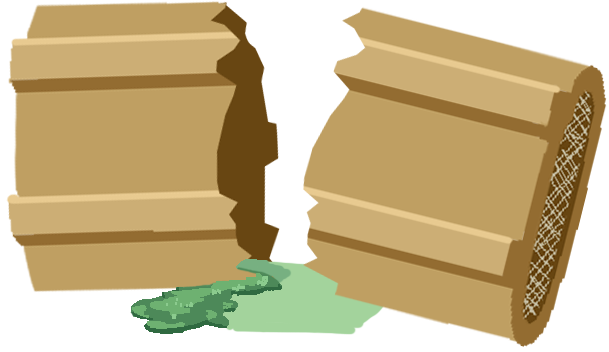
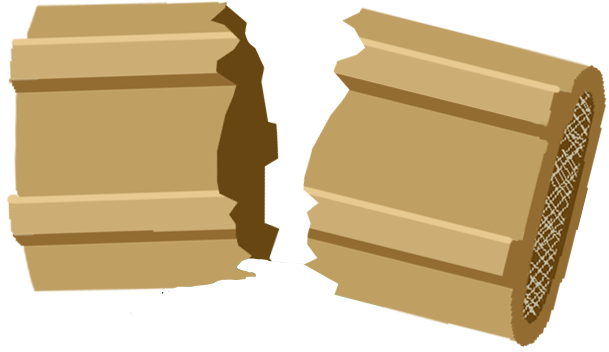
From the capsule, they emerge

Changed region(s): [[0.2184, 0.7188, 0.624, 0.9688]]

diff --git a/game.ts b/game.ts
@@ -6,6 +6,7 @@ import {Tardigrade} from './tardigrade.js'
 import {Point, distanceSquared, addPoints, assignPoint} from './math.js';
 import {Popover, EmptyPopover, PausePopover} from './popover.js';
 import {liveTardigrades} from './tardigrade.js'
+import { Capsule } from './capsule.js';
 
 export interface Viewport {
   x: number;
@@ -25,6 +26,7 @@ export class Game {
   readonly grid : Grid;
   readonly pawns = new Array<Tardigrade>();
   readonly batteries = new Array<Battery>();
+  readonly capsules = new Array<Capsule>();
   readonly hud = new Hud(this);
 
   private readonly heldButtons = new Set<number>();
@@ -136,12 +138,20 @@ export class Game {
 
     this.grid.draw(this.ctx, timestamp);
 
+    for(let i=0; i < this.capsules.length; i++) {
+      this.capsules[i].drawBG(this.ctx);
+    }
+
     for (let i = 0; i < this.pawns.length; i++){
       this.pawns[i].draw(this.ctx);
     }
 
     for(let i = 0; i < this.batteries.length; i++) {
       this.batteries[i].draw(this.ctx);
+    }
+
+    for(let i=0; i < this.capsules.length; i++) {
+      this.capsules[i].draw(this.ctx);
     }
 
     this.ctx.setTransform(1, 0, 0, 1, 0, 0);
@@ -236,10 +246,14 @@ export class Game {
     }
 
     // put a water source somewhere near the middle of the game
-    this.grid.getCell({
+    const waterCell = this.grid.getCell({
       x: this.grid.columns / 2 + Math.random() * 6 - 3,
       y: this.grid.rows / 2 + Math.random() * 6 - 3,
-    }).type = 'WATER_SOURCE';
+    })
+    waterCell.type = 'WATER_SOURCE';
+
+    // put a capsule to generate the water source
+    new Capsule(this, waterCell.point);
 
     // put a bunch of moss blocks somewhere
     for(let i = 0; i < 12; i++) {

diff --git a/capsule.ts b/capsule.ts
@@ -1,0 +1,29 @@
+import { loadImage } from "./loader.js";
+import { Game } from "./game.js";
+import { Point, addPoints, isPointInBox } from "./math.js";
+
+const image = loadImage('assets/pictures/capsule_withmoss.png');
+const bgImage = loadImage('assets/pictures/capsule_bg.png');
+
+export class Capsule {
+  readonly offset: Point = {x: -255, y: -266};
+  drawOrigin: Point = {x: 0, y:0};
+  mouseOver = false;
+  constructor(readonly game: Game, readonly point: Point) {
+    game.capsules.push(this);
+    addPoints(this.drawOrigin, this.offset, {x:this.point.x * game.grid.xPixelsPerCell, y:this.point.y * game.grid.yPixelsPerCell});
+  }
+
+  draw(ctx: CanvasRenderingContext2D) {
+    const mousePos = this.game.worldSpaceMousePosition;
+    if(isPointInBox(mousePos.x * this.game.grid.xPixelsPerCell, mousePos.y * this.game.grid.yPixelsPerCell, this.drawOrigin.x, this.drawOrigin.y, image.width, image.height)) {
+      ctx.globalAlpha = 0.5
+    }
+    ctx.drawImage(image, this.drawOrigin.x, this.drawOrigin.y);
+    ctx.globalAlpha = 1
+  }
+
+  drawBG(ctx: CanvasRenderingContext2D) {
+    ctx.drawImage(bgImage, this.drawOrigin.x, this.drawOrigin.y);
+  }
+}

diff --git a/grid.ts b/grid.ts
@@ -243,7 +243,7 @@ const gridImages: {[key in CellType]: HTMLImageElement} = {
   BIG_ROCK: loadImage('assets/pictures/Rocks_and_moss/just_a_rock.png'),
   ROAD: loadImage('assets/pictures/nsroad1.png'),
   PLANNED_CANAL: loadImage('assets/pictures/futureCanal.png'),
-  WATER_SOURCE: loadImage('assets/pictures/Puddle_states/puddle.png'),
+  WATER_SOURCE: loadImage('assets/pictures/empty1.png'),
   MOSS: loadImage('assets/pictures/Rocks_and_moss/rock_lotsa_moss.png'),
   PLANNED_MOSS: loadImage('assets/pictures/Rocks_and_moss/rock_little_moss.png'),
 }
